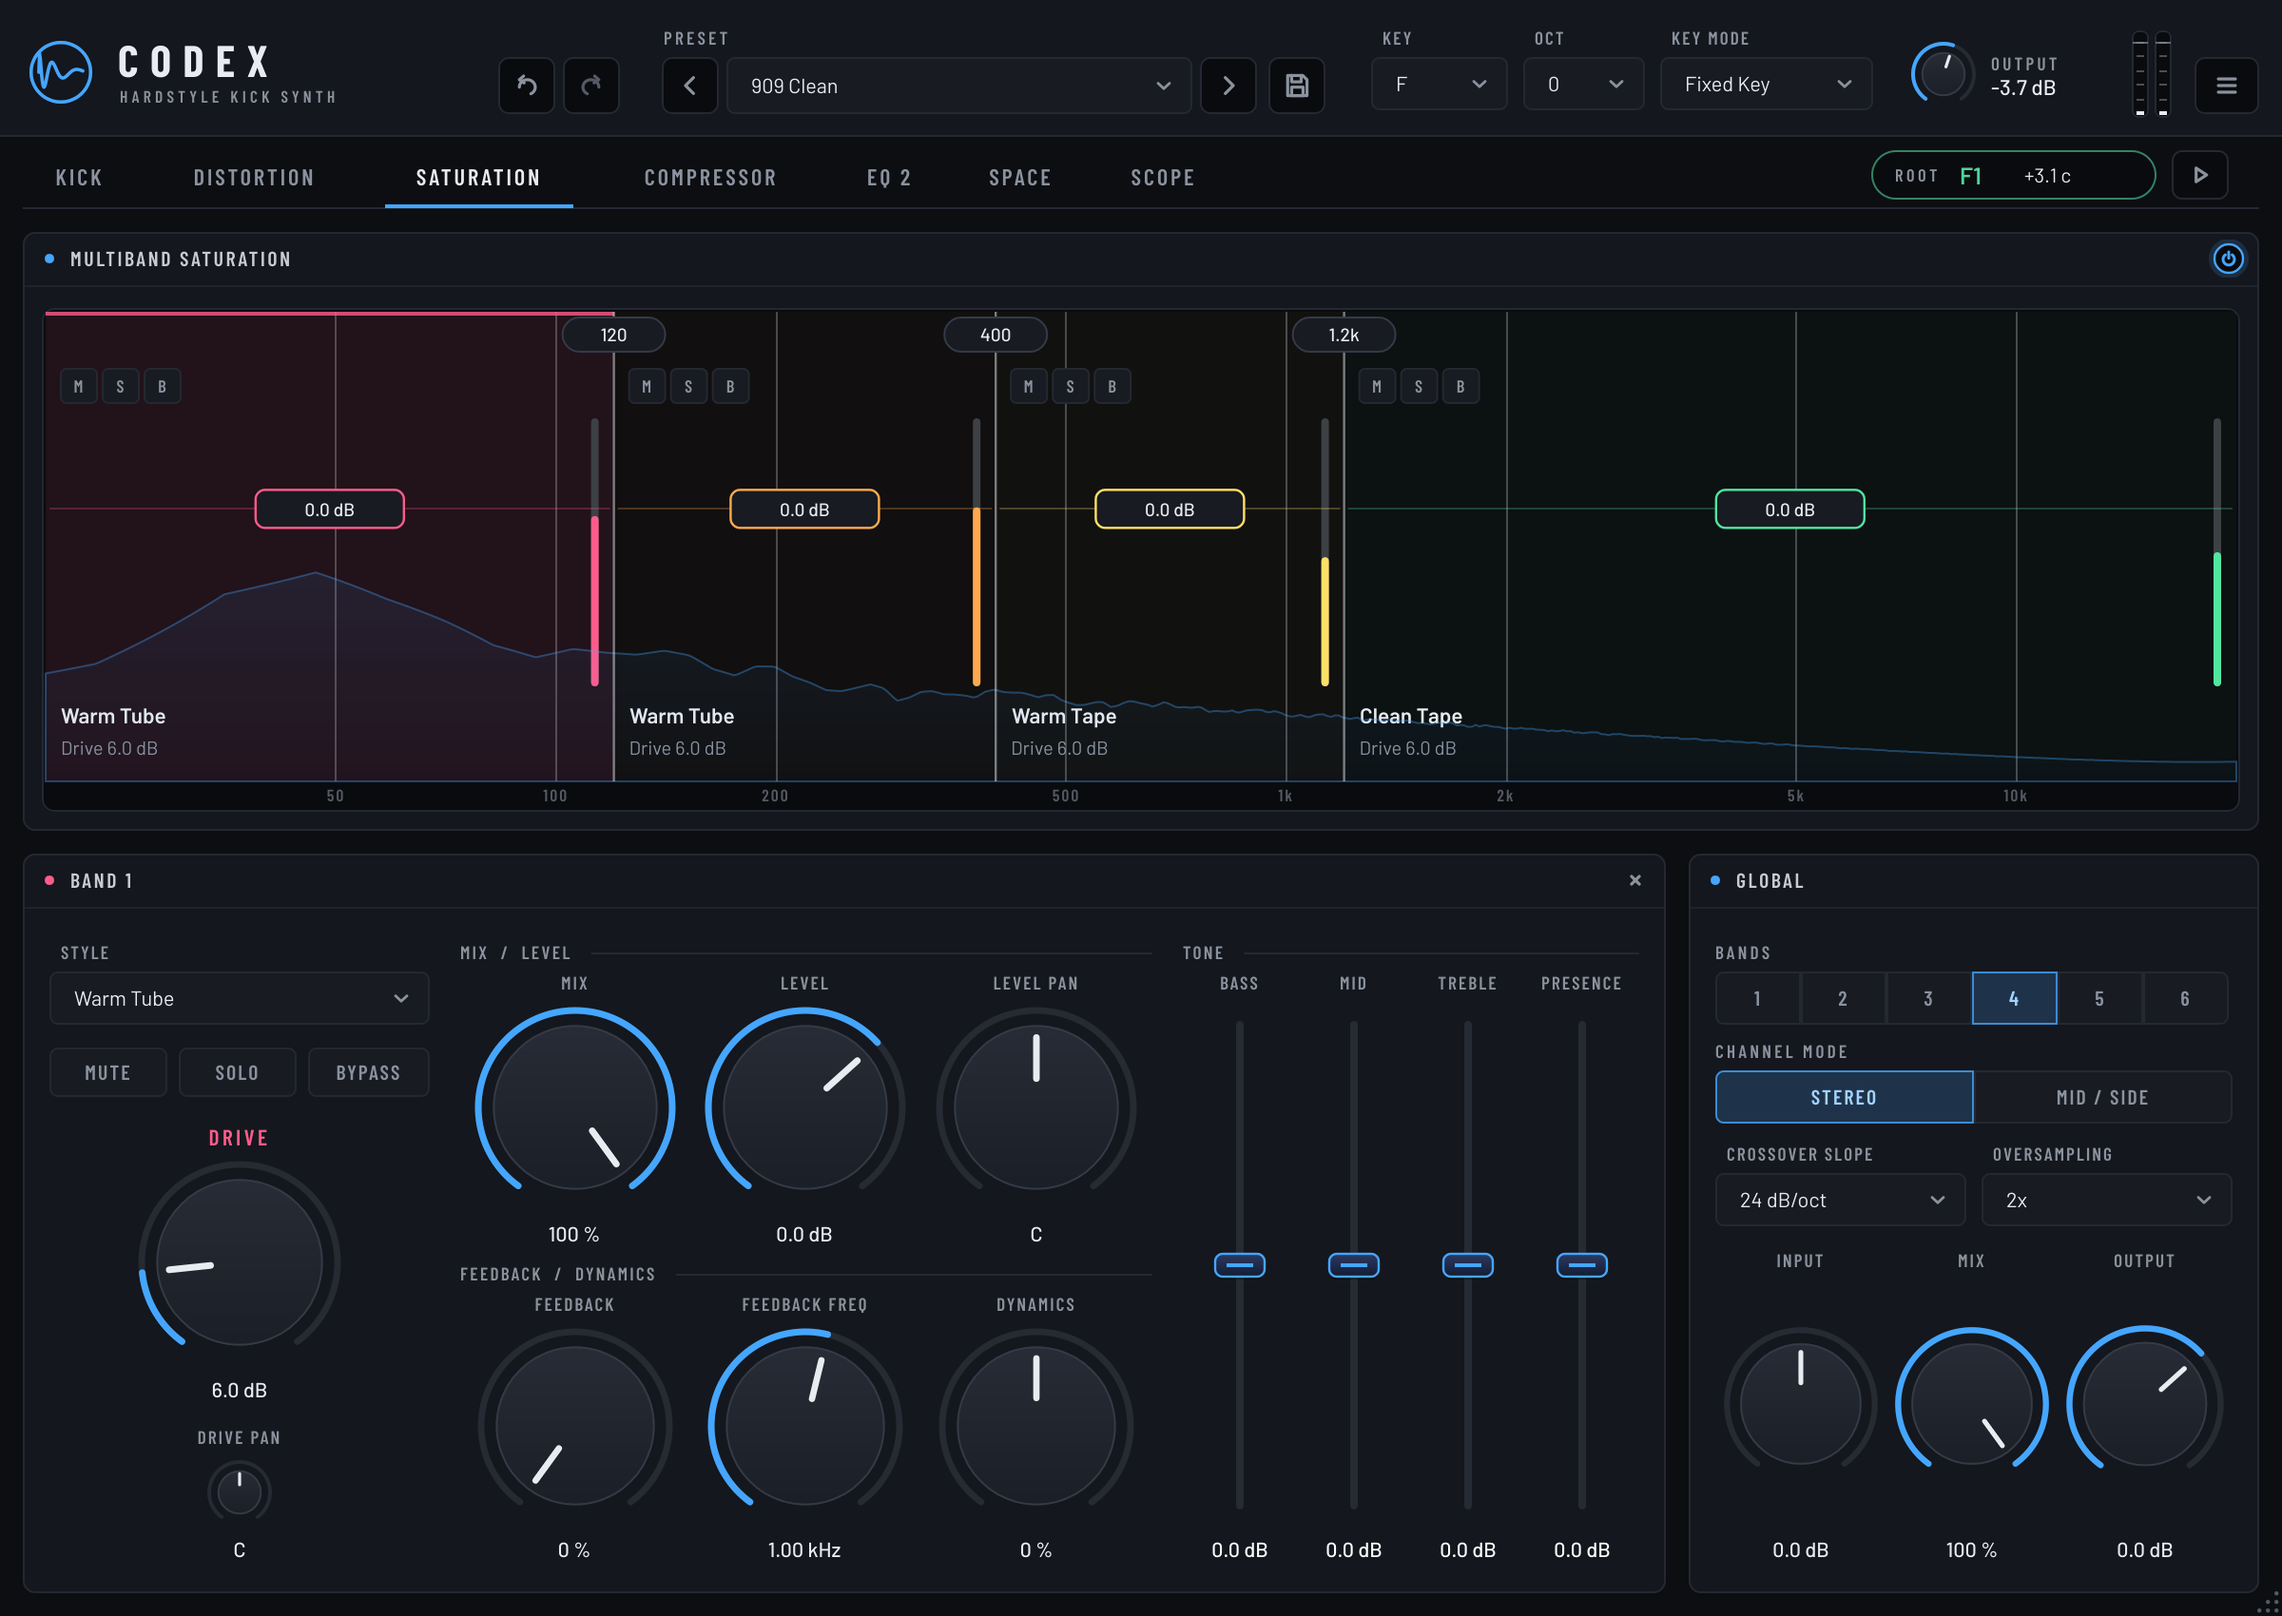
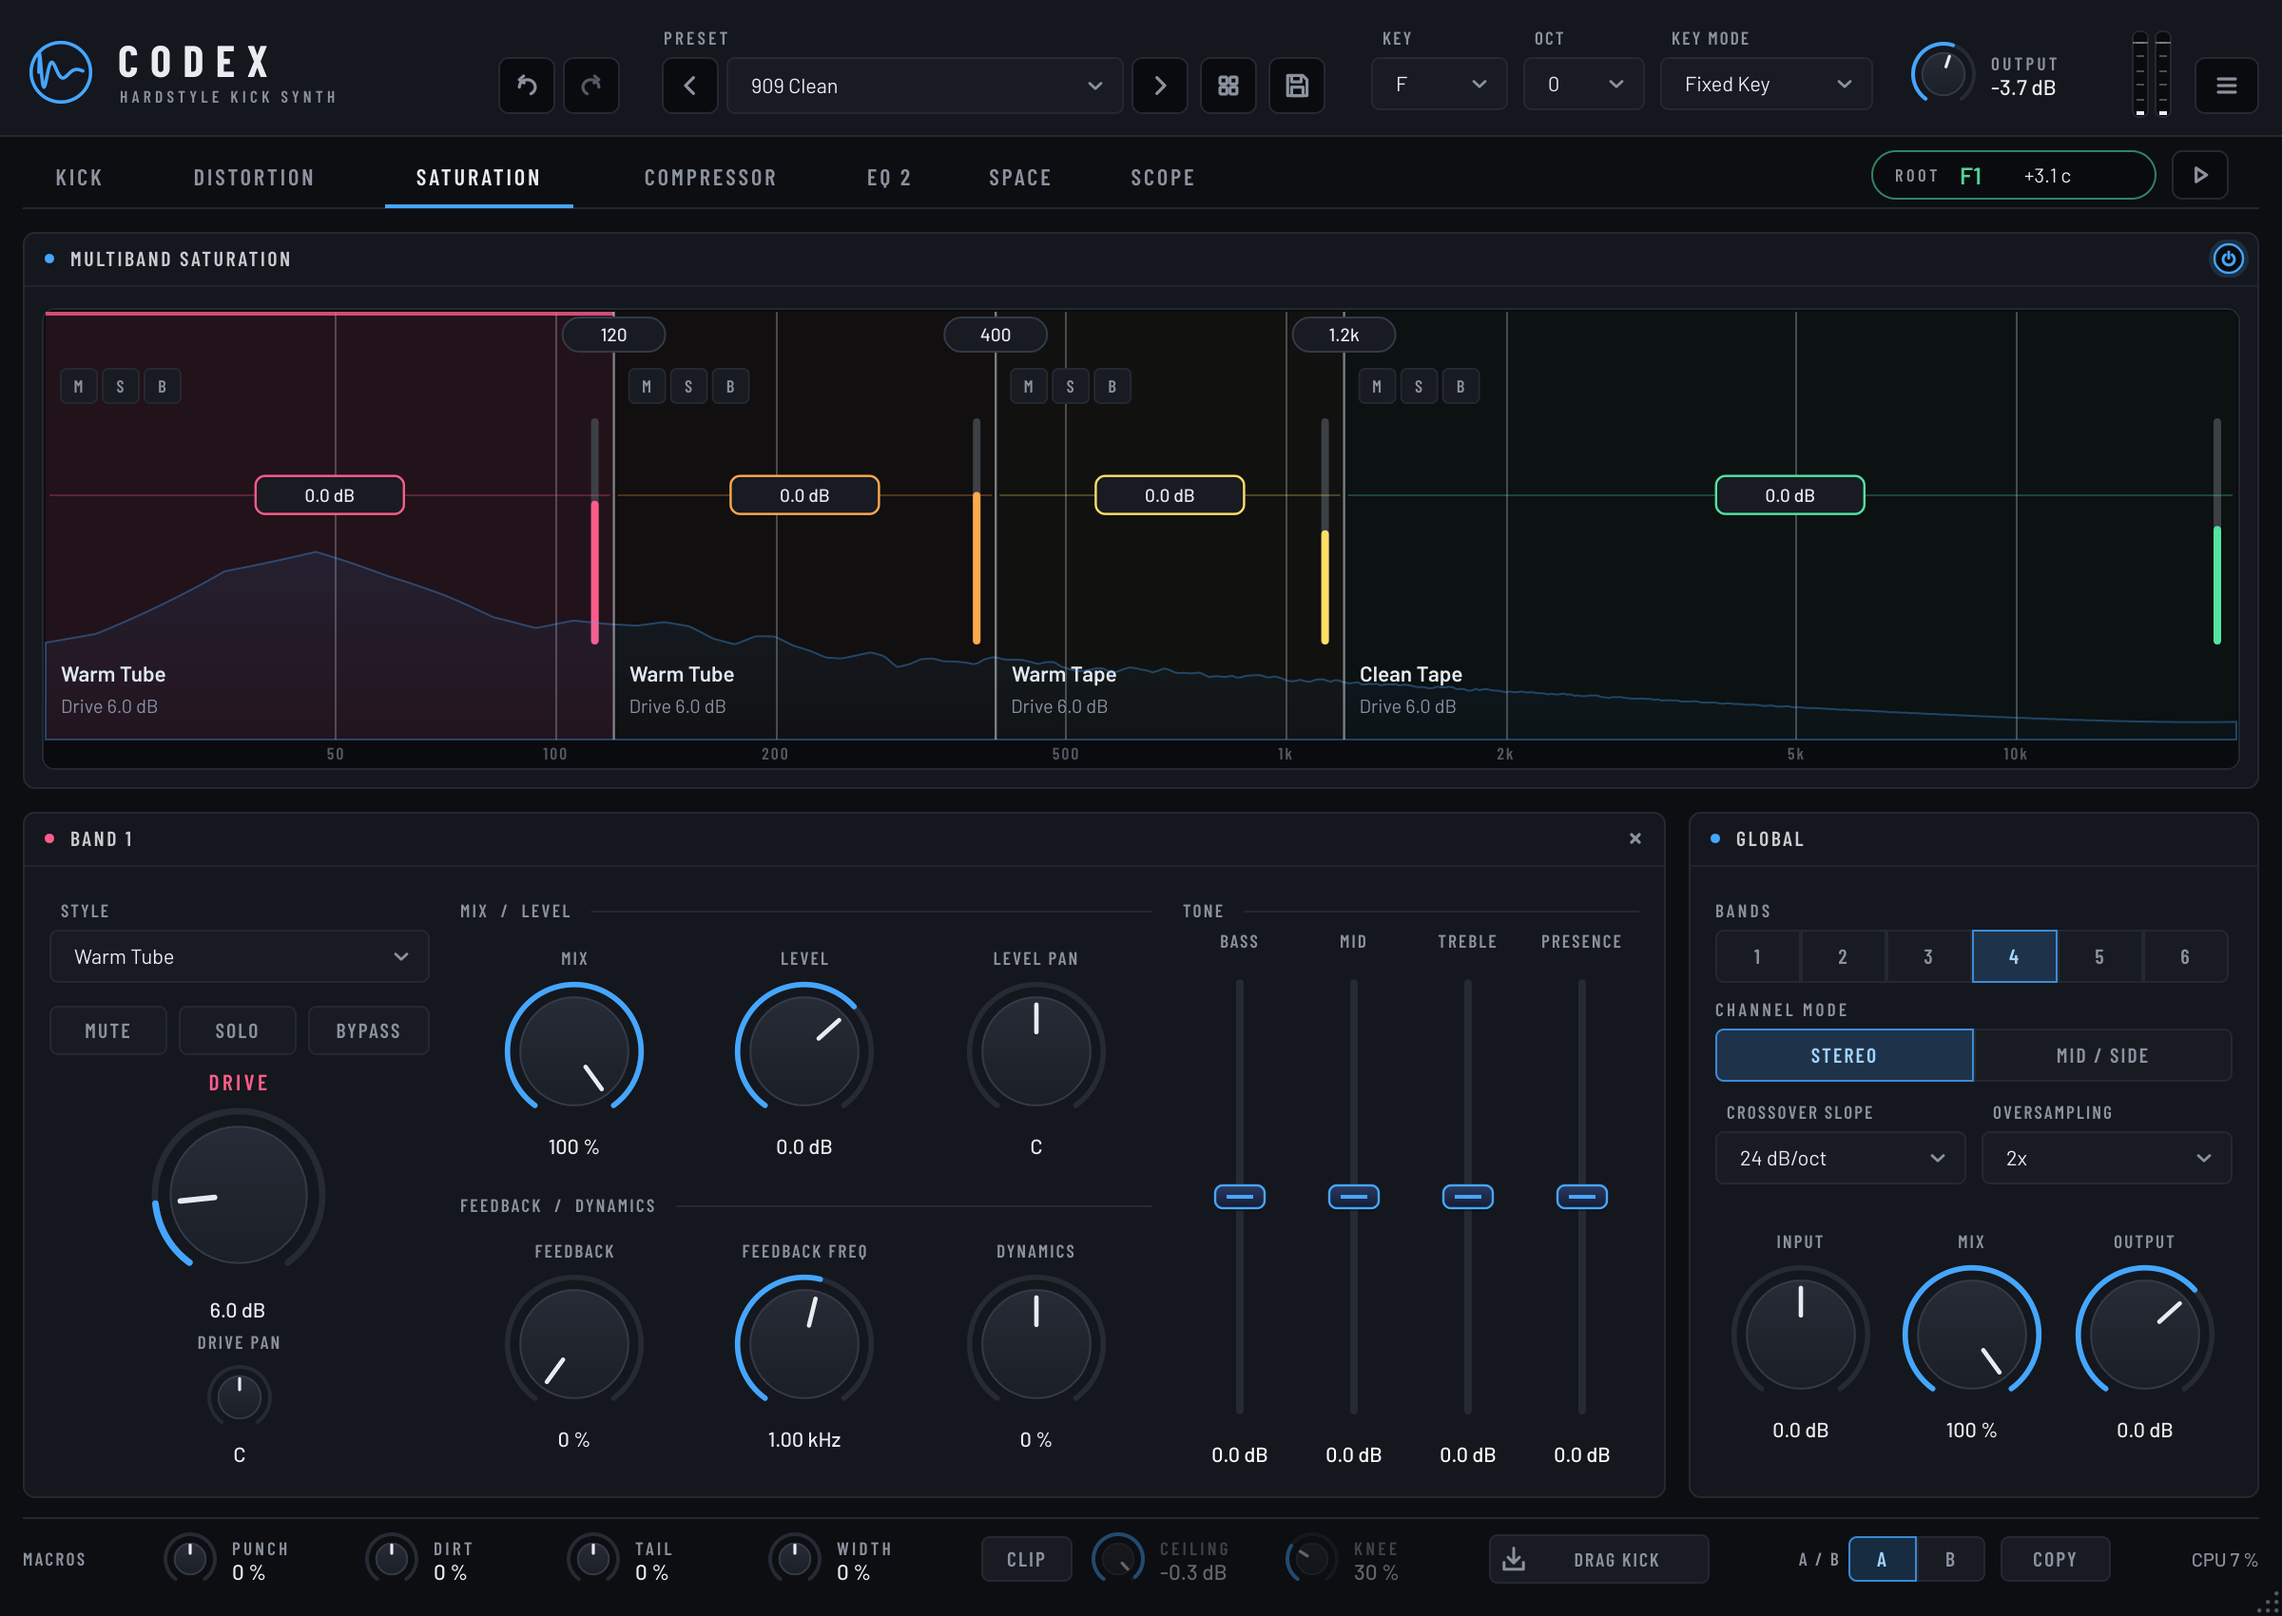
UI: cap knob size so no knob dominates a panel
Claude-Session: https://claude.ai/code/session_01XxMp2YJXw4rSjWE8GsvmNR

diff --git a/Source/GUI/Widgets.h b/Source/GUI/Widgets.h
@@ -44,9 +44,15 @@ public:
 
     void resized() override
     {
+        // Knobs never grow beyond a comfortable size, however much room the layout gives them
+        // (large: 112 px dial, normal: 76 px dial, plus the value text below)
+        const int maxDial = label.getProperties().contains ("captionLarge") ? 112 : 76;
         auto r = getLocalBounds();
-        label.setBounds (r.removeFromTop (16));
-        slider.setBounds (r);
+        const int textH = 20;
+        const int dial = juce::jmin (maxDial, r.getWidth(), r.getHeight() - 16 - textH);
+        auto content = r.withSizeKeepingCentre (r.getWidth(), juce::jmin (r.getHeight(), 16 + dial + textH + 4));
+        label.setBounds (content.removeFromTop (16));
+        slider.setBounds (content.withSizeKeepingCentre (juce::jmax (dial, 84), content.getHeight()));
     }
 
     juce::Label label;
